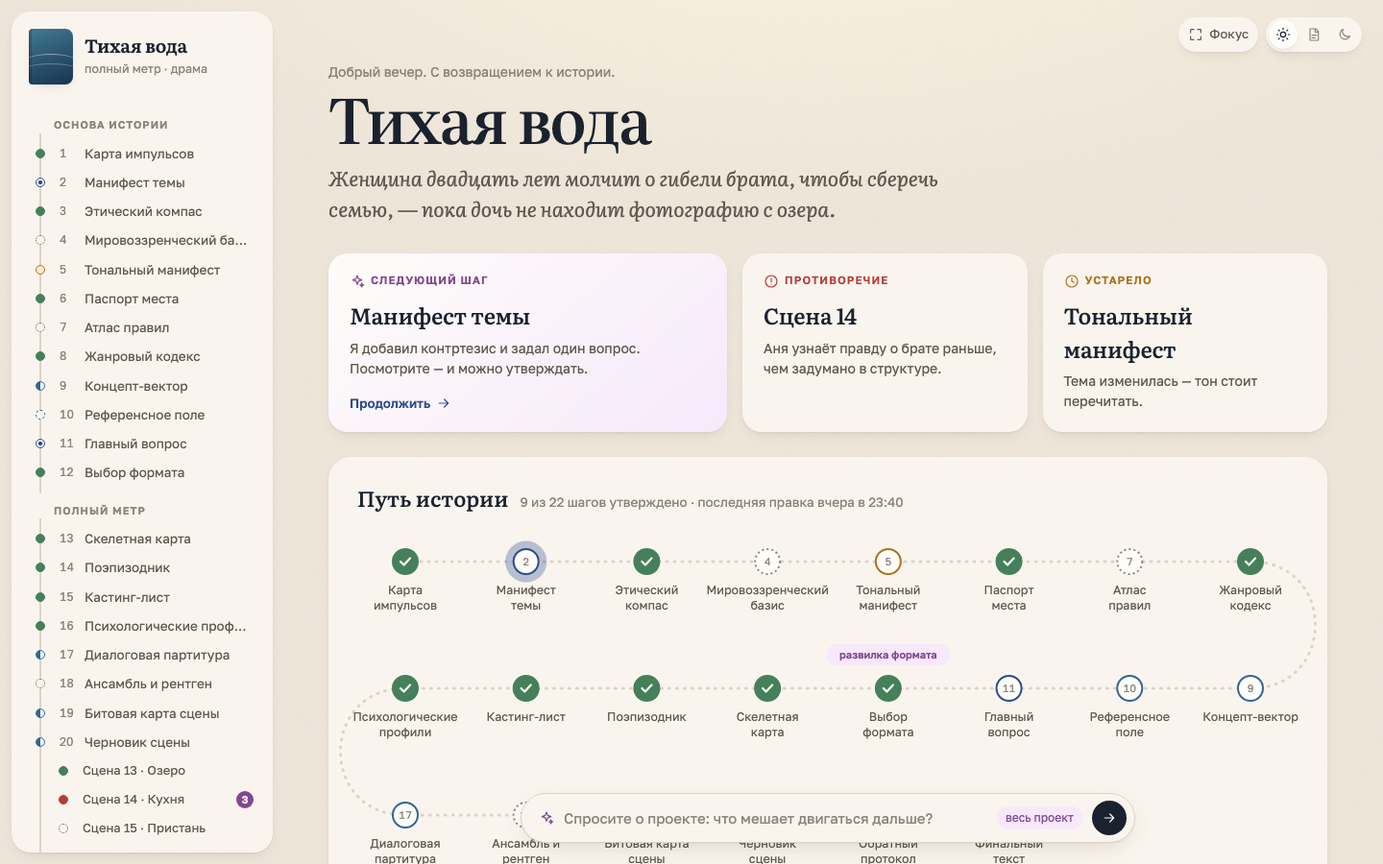
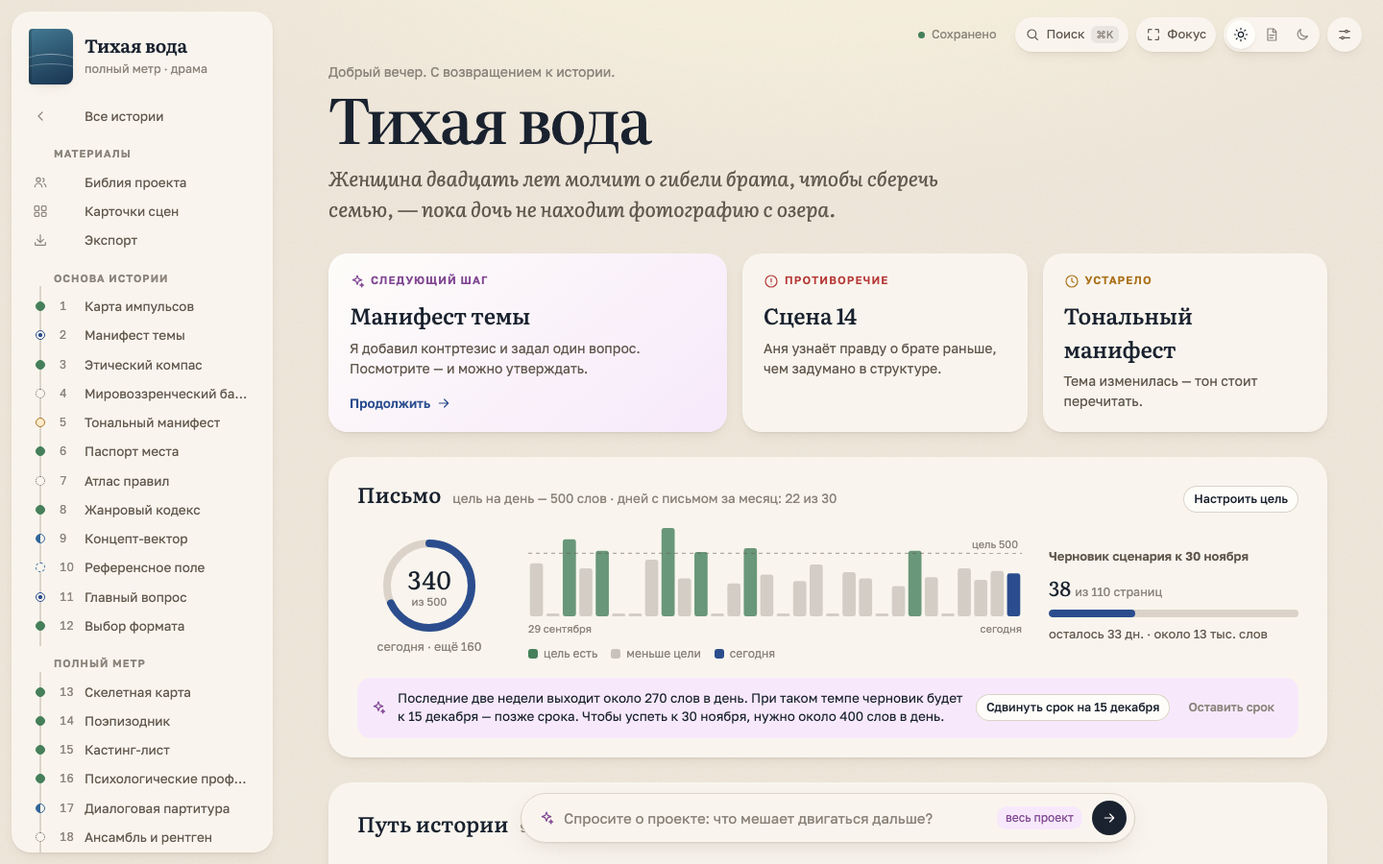
Add writing goals to «Кабинет» and FB2/EPUB export decisions
Home screen gets a «Письмо» block: today's words against the daily goal,
30 days of bars with the goal line, the draft goal with a deadline and the
co-author's pace forecast, plus goal settings. The scene sheet shows a live
«сегодня N из 500» counter. Context records goals, FB2 and EPUB export;
the competitor table gains FB2 rows and the new statuses.

diff --git a/openspec/context/_raw/design/kabinet/index.html b/openspec/context/_raw/design/kabinet/index.html
@@ -264,6 +264,54 @@
   .card .lbl { font-size: 11.5px; letter-spacing: .09em; text-transform: uppercase; font-weight: 600; color: var(--ink-3); display: flex; align-items: center; gap: 6px; }
   .card h3 { font-family: var(--font-prose); font-size: 23px; font-weight: 500; margin: 10px 0 6px; letter-spacing: -.01em; }
   .card p { margin: 0; color: var(--ink-2); font-size: 14px; }
+  /* ——— Письмо: цель на день и прогресс ——— */
+  .wr { background: var(--panel); border-radius: 24px; box-shadow: var(--shadow-sm); padding: 22px 30px 20px; margin-bottom: 26px; }
+  .wr-h { display: flex; align-items: baseline; flex-wrap: wrap; gap: 6px 12px; margin-bottom: 16px; }
+  .wr-h b { font-family: var(--font-prose); font-size: 22px; font-weight: 500; }
+  .wr-h span { color: var(--ink-3); font-size: 13.5px; }
+  .wr-h .chipbtn { margin-left: auto; }
+  .wr-body { display: grid; grid-template-columns: 150px 1fr 260px; gap: 28px; align-items: center; }
+  .wr-today { display: grid; justify-items: center; gap: 4px; text-align: center; }
+  .wr-ring { width: 104px; height: 104px; display: block; }
+  .wr-ring .bg { stroke: var(--line); } .wr-ring .fg { stroke: var(--accent); transition: stroke-dasharray .4s; } .wr-ring.met .fg { stroke: var(--ok); }
+  .wr-ring text { font-family: var(--font-prose); fill: var(--ink); font-size: 26px; font-variant-numeric: tabular-nums; }
+  .wr-ring text.sub { font-family: var(--font-ui); fill: var(--ink-3); font-size: 11.5px; }
+  .wr-today small { color: var(--ink-3); font-size: 12.5px; line-height: 1.35; }
+  .wr-chart { min-width: 0; }
+  .wr-plot { position: relative; }
+  .wr-chart svg { width: 100%; height: 92px; display: block; overflow: visible; }
+  .wr-goal { position: absolute; right: 0; font-size: 11px; color: var(--ink-3); background: var(--panel-solid); padding: 0 4px; border-radius: 4px; }
+  .wr-axis { display: flex; justify-content: space-between; margin-top: 5px; font-size: 11px; color: var(--ink-3); }
+  .wr-chart .bar { fill: var(--ink-3); opacity: .35; } .wr-chart .bar.met { fill: var(--ok); opacity: .8; } .wr-chart .bar.today { fill: var(--accent); opacity: 1; }
+  .wr-chart .zero { fill: var(--ink-3); opacity: .35; }
+  .wr-chart .goal { stroke: var(--ink-2); stroke-dasharray: 4 4; opacity: .6; }
+  .wr-legend { display: flex; flex-wrap: wrap; gap: 4px 14px; margin-top: 8px; font-size: 12px; color: var(--ink-3); }
+  .wr-legend span { display: inline-flex; align-items: center; gap: 6px; }
+  .wr-legend i { width: 10px; height: 10px; border-radius: 3px; display: inline-block; }
+  .wr-proj h4 { margin: 0 0 6px; font-size: 13px; font-weight: 600; color: var(--ink-2); }
+  .wr-proj .num { font-family: var(--font-prose); font-size: 21px; color: var(--ink); }
+  .wr-proj .num small { font-family: var(--font-ui); font-size: 12.5px; color: var(--ink-3); }
+  .wr-track { height: 8px; border-radius: 4px; background: var(--line); margin: 8px 0 8px; overflow: hidden; }
+  .wr-track i { display: block; height: 100%; border-radius: 4px; background: var(--accent); }
+  .wr-proj p { margin: 0; font-size: 13px; color: var(--ink-2); line-height: 1.45; }
+  .wr-ai { margin-top: 16px; padding: 12px 14px; border-radius: 14px; background: var(--ai-soft); font-size: 13.5px; line-height: 1.45; display: flex; flex-wrap: wrap; align-items: center; gap: 8px 12px; }
+  .wr-ai .i { color: var(--ai); flex: none; }
+  .wr-ai span { flex: 1 1 320px; }
+  .wr-ai .acts { display: flex; gap: 8px; flex-wrap: wrap; }
+  .wr-form { display: grid; grid-template-columns: repeat(3, minmax(0, 1fr)); gap: 14px 20px; margin-top: 4px; }
+  .wr-form label { display: grid; gap: 6px; font-size: 13px; color: var(--ink-2); }
+  .wr-form label small { color: var(--ink-3); font-size: 12px; }
+  .wr-form .field { max-width: none; }
+  .wr-form .wide { grid-column: 1 / -1; display: flex; flex-wrap: wrap; align-items: center; gap: 10px 16px; font-size: 13px; color: var(--ink-2); }
+  .wr-form .acts { grid-column: 1 / -1; display: flex; gap: 8px; }
+  .wr-form .wide .seg { margin: 0; }
+  .wr-form .wide .sep { margin-left: 18px; }
+  .wr-chip { display: inline-flex; align-items: center; gap: 7px; font-size: 12.5px; color: var(--ink-3); white-space: nowrap; font-variant-numeric: tabular-nums; }
+  .wr-chip svg { width: 18px; height: 18px; }
+  .wr-chip .bg { stroke: var(--line); } .wr-chip .fg { stroke: var(--accent); } .wr-chip.met .fg { stroke: var(--ok); } .wr-chip.met b { color: var(--ok); }
+  .wr-chip b { color: var(--ink); font-weight: 600; }
+  @media (max-width: 1000px) { .wr-body { grid-template-columns: 130px 1fr; } .wr-proj { grid-column: 1 / -1; } }
+  @media (max-width: 600px) { .wr { padding: 18px 18px 16px; } .wr-body { grid-template-columns: 1fr; gap: 18px; } .wr-today { grid-template-columns: auto 1fr; justify-items: start; text-align: left; align-items: center; column-gap: 14px; } .wr-ring { width: 84px; height: 84px; } .wr-ai > .i { display: none; } .wr-form { grid-template-columns: 1fr; } .wr-h .chipbtn { margin-left: 0; } }
   .card.next { background: linear-gradient(140deg, var(--paper), var(--ai-soft)); }
   .card.next .lbl { color: var(--ai); }
   .card .go { margin-top: 16px; display: inline-flex; align-items: center; gap: 6px; font-weight: 600; font-size: 13.5px; color: var(--accent); }
@@ -1438,6 +1486,7 @@ const STATE = {
   bibleTab: "people", gap: null,
   tlSel: 14, tlThreads: true, tlKnow: true, grSel: 14, tnSel: 14, tnMood: ["v", "a"], tension: {}, relAt: 14, relSel: "va", relFocus: "v", relView: "arcs",
   ibSel: 10, ibEdit: null, ibRename: null, ibGone: [], ibUndo: null, ibPos: {}, ibLinks: ["1-9", "1-4", "13-14", "3-5", "2-5", "2-16", "5-17", "6-8", "7-8"], ibSugg: ["4-10", "6-12"], ibLink: null, ibYes: {}, ibNo: [], ibNew: [], ibWires: true, ibShowGrew: true, ibGroups: true, ibView: "board", ibCam: null, ibGroupSugg: true,
+  goal: { day: 500, pages: 110, by: "2026-11-30", count: "text", chip: true, edit: false }, wrToday: 340,
   // Рамки групп на доске импульсов: координаты в точках доски
   ibFrames: [{ id: "lake", name: "Озеро", x: 0, y: 0, w: 620, h: 452 }, { id: "vera", name: "Вера и тема", x: 700, y: 0, w: 620, h: 452 }, { id: "kitchen", name: "Кухня, ночь", x: 1400, y: 0, w: 420, h: 452 }],
 };
@@ -1509,6 +1558,7 @@ const VIEWS = {
         <button class="card" data-act="sc-open" data-k="14"><div class="lbl" style="color:var(--bad)">${ico("warn")}Противоречие</div><h3>Сцена 14</h3><p>Аня узнаёт правду о брате раньше, чем задумано в структуре.</p></button>
         <button class="card"><div class="lbl" style="color:var(--warn)">${ico("clock")}Устарело</div><h3>Тональный манифест</h3><p>Тема изменилась — тон стоит перечитать.</p></button>
       </div>
+      ${wrHtml()}
       <div class="journey">
         <div class="journey-h"><b>Путь истории</b><span>${approvedCount()} из 22 шагов утверждено ·последняя правка вчера в 23:40</span></div>
         ${journeySvg()}
@@ -1585,7 +1635,7 @@ const VIEWS = {
       <article class="sheet script">
         <div class="eyebrow">Шаг 20 · Черновик сцены${one ? ` · биты из шага 19` : " · акт II"}</div>
         <h1 style="font-size:36px">${one ? s.title : "Трещина"}</h1>
-        <div class="meta">${one ? pill : `<span class="pill in_progress"><i></i>3 из 10 сцен написаны</span>`}${seg}${one ? btn : ""}${one ? scpHtml(n) : ""}</div>
+        <div class="meta">${one ? pill : `<span class="pill in_progress"><i></i>3 из 10 сцен написаны</span>`}${seg}${one ? btn : ""}${wrChip()}${one ? scpHtml(n) : ""}</div>
         ${ids.map(body).join("")}
         <div class="elt" id="elt" hidden></div>
       </article>
@@ -2679,6 +2729,59 @@ function relUpdate() {
 }
 document.addEventListener("input", (e) => { if (e.target.id === "relrange") { STATE.relAt = Number(e.target.value); relUpdate(); } });
 const boardSeg = (cur) => `<div class="seg">${[["cards", "Карточки"], ["scene", 'Текст<span class="wide"> сценария</span>'], ["timeline", "Таймлайн"], ["grid", "Линии"], ["rhythm", "Ритм"]].map(([k, l]) => `<button aria-pressed="${k === cur}" ${k === cur ? "" : `data-open="${k}"`}>${l}</button>`).join("")}</div>`;
+// ——— Письмо: цель на день, график за 30 дней, цель по черновику ———
+// Считаются слова в сценах и прозе; документы шагов — обдумывание, а не текст. Сценарий меряется страницами, день — словами.
+const WR_TODAY = new Date(2026, 9, 28);
+const WR_PAGES = 38, WR_WPP = 180;
+// слова за 29 дней до сегодня, от старых к новым
+const WR_DAYS = [420, 0, 610, 380, 520, 0, 0, 450, 700, 300, 510, 0, 260, 540, 330, 0, 280, 410, 0, 350, 300, 0, 240, 520, 310, 0, 380, 290, 360];
+const ruDate = (d, year) => d.toLocaleDateString("ru-RU", { day: "numeric", month: "long", ...(year ? { year: "numeric" } : {}) });
+const wrDays = () => [...WR_DAYS, STATE.wrToday];
+function wrPlan() {
+  const g = STATE.goal, days = wrDays(), last = days.slice(-14), avg = Math.round(last.reduce((a, b) => a + b, 0) / last.length);
+  const left = Math.max(0, g.pages - WR_PAGES) * WR_WPP, by = new Date(g.by), daysLeft = Math.max(1, Math.round((by - WR_TODAY) / 864e5));
+  const eta = new Date(WR_TODAY.getTime() + Math.ceil(left / Math.max(avg, 1)) * 864e5);
+  return { avg, left, by, daysLeft, need: Math.ceil(left / daysLeft / 10) * 10, eta, late: eta > by, active: days.filter(Boolean).length };
+}
+const wrRing = (cls, size, r, w, inner) => {
+  const c = 2 * Math.PI * r, f = Math.min(1, STATE.wrToday / STATE.goal.day), met = STATE.wrToday >= STATE.goal.day;
+  return `<svg class="${cls} ${met ? "met" : ""}" viewBox="0 0 ${size} ${size}" aria-hidden="true"><circle class="bg" cx="${size / 2}" cy="${size / 2}" r="${r}" fill="none" stroke-width="${w}"/><circle class="fg" cx="${size / 2}" cy="${size / 2}" r="${r}" fill="none" stroke-width="${w}" stroke-linecap="round" stroke-dasharray="${(c * f).toFixed(1)} ${c.toFixed(1)}" transform="rotate(-90 ${size / 2} ${size / 2})"/>${inner || ""}</svg>`;
+};
+function wrChart() {
+  const days = wrDays(), g = STATE.goal.day, W = 600, H = 92, top = Math.max(g * 1.25, ...days), bw = W / days.length;
+  const y = (v) => H - (v / top) * H, gy = y(g).toFixed(1);
+  const bars = days.map((v, i) => {
+    const d = new Date(WR_TODAY.getTime() - (days.length - 1 - i) * 864e5), x = (i * bw + 2).toFixed(1), today = i === days.length - 1;
+    const tip = `<title>${ruDate(d)}: ${v ? `${v} слов` : "без письма"}</title>`;
+    if (!v) return `<rect class="zero" x="${x}" y="${H - 3}" width="${(bw - 4).toFixed(1)}" height="3" rx="1.5">${tip}</rect>`;
+    return `<rect class="bar ${v >= g ? "met" : ""} ${today ? "today" : ""}" x="${x}" y="${y(v).toFixed(1)}" width="${(bw - 4).toFixed(1)}" height="${(H - y(v)).toFixed(1)}" rx="3">${tip}</rect>`;
+  }).join("");
+  return `<div class="wr-plot"><svg viewBox="0 0 ${W} ${H}" preserveAspectRatio="none" role="img" aria-label="Слова по дням за 30 дней">${bars}<line class="goal" x1="0" x2="${W}" y1="${gy}" y2="${gy}" vector-effect="non-scaling-stroke"/></svg><span class="wr-goal" style="top:${(gy - 17).toFixed(0)}px">цель ${g}</span></div><div class="wr-axis"><span>${ruDate(new Date(WR_TODAY.getTime() - 29 * 864e5))}</span><span>сегодня</span></div>`;
+}
+function wrHtml() {
+  const g = STATE.goal, pl = wrPlan(), met = STATE.wrToday >= g.day;
+  if (g.edit) return `<section class="wr"><div class="wr-h"><b>Цель письма</b><span>видна только вам</span></div>
+    <div class="wr-form">
+      <label>Слов в день<input class="field" id="wrday" type="number" min="50" step="50" value="${g.day}" /><small>считаются сцены и проза</small></label>
+      <label>Черновик сценария, страниц<input class="field" id="wrpages" type="number" min="1" value="${g.pages}" /><small>написано ${WR_PAGES}</small></label>
+      <label>Срок<input class="field" id="wrby" type="date" value="${g.by}" /><small>можно без срока — оставьте пустым</small></label>
+      <div class="wide"><span>Что считать:</span><div class="seg" role="group" aria-label="Что считать"><button aria-pressed="${g.count === "text"}" data-act="wr-count" data-k="text">Только текст истории</button><button aria-pressed="${g.count === "all"}" data-act="wr-count" data-k="all">Все документы</button></div>
+        <span class="sep">Счётчик на листе</span><button class="toggle ${g.chip ? "on" : ""}" data-act="wr-chip-t" aria-label="Счётчик на листе"><i></i></button></div>
+      <div class="acts"><button class="chipbtn main" data-act="wr-save">Сохранить</button><button class="chipbtn quiet" data-act="wr-edit">Отмена</button></div>
+    </div></section>`;
+  const byTxt = g.by ? ` к ${ruDate(pl.by)}` : "";
+  const ai = !g.by ? "" : pl.late
+    ? `<div class="wr-ai">${ico("ai")}<span>Последние две недели выходит около ${pl.avg} слов в день. При таком темпе черновик будет к ${ruDate(pl.eta)} — позже срока. Чтобы успеть${byTxt}, нужно около ${pl.need} слов в день.</span><div class="acts"><button class="chipbtn" data-act="wr-shift">Сдвинуть срок на ${ruDate(pl.eta)}</button><button class="chipbtn quiet" data-act="wr-keep">Оставить срок</button></div></div>`
+    : `<div class="wr-ai">${ico("ai")}<span>Около ${pl.avg} слов в день за две недели — черновик будет к ${ruDate(pl.eta)}${pl.eta.toDateString() === pl.by.toDateString() ? ", как раз к сроку" : ", раньше срока"}.</span></div>`;
+  return `<section class="wr">
+    <div class="wr-h"><b>Письмо</b><span>цель на день — ${g.day} слов · дней с письмом за месяц: ${pl.active} из 30</span><button class="chipbtn" data-act="wr-edit">Настроить цель</button></div>
+    <div class="wr-body">
+      <div class="wr-today">${wrRing("wr-ring", 104, 44, 8, `<text x="52" y="56" text-anchor="middle">${STATE.wrToday}</text><text class="sub" x="52" y="73" text-anchor="middle">из ${g.day}</text>`)}<small>${met ? "Цель на сегодня есть" : `сегодня · ещё ${g.day - STATE.wrToday}`}</small></div>
+      <div class="wr-chart">${wrChart()}<div class="wr-legend"><span><i style="background:var(--ok)"></i>цель есть</span><span><i style="background:var(--ink-3);opacity:.45"></i>меньше цели</span><span><i style="background:var(--accent)"></i>сегодня</span></div></div>
+      <div class="wr-proj"><h4>Черновик сценария${byTxt}</h4><div class="num">${WR_PAGES} <small>из ${g.pages} страниц</small></div><div class="wr-track"><i style="width:${Math.min(100, (WR_PAGES / g.pages) * 100).toFixed(1)}%"></i></div><p>${g.by ? `осталось ${pl.daysLeft} дн. · около ${Math.round(pl.left / 1000)} тыс. слов` : "без срока"}</p></div>
+    </div>${ai}</section>`;
+}
+const wrChip = () => STATE.goal.chip ? `<span class="wr-chip ${STATE.wrToday >= STATE.goal.day ? "met" : ""}" id="wrchip" title="Слова за сегодня. Цель — на главном экране">${wrRing("", 18, 7, 3)}сегодня <b>${STATE.wrToday}</b> из ${STATE.goal.day}</span>` : "";
 function nextCard() {
   const card = (key, label, title, text, go) => `<button class="card next" data-open="${key}"><div class="lbl">${ico("ai")}${label}</div><h3>${title}</h3><p>${text}</p><span class="go">${go} ${ico("arrow")}</span></button>`;
   if (STATE.revision) return card("impact", "План пересмотра", `0 из ${STATE.plan.size} документов`, "Тема изменилась. Начнём с «Тонального манифеста» — я отметил, что в нём устарело.", "Открыть план");
@@ -3096,7 +3199,7 @@ function segCenter() {
   const sg = $("#desk .seg"), b = sg && sg.querySelector('[aria-pressed="true"]');
   if (b && sg.scrollWidth > sg.clientWidth) sg.scrollLeft = b.offsetLeft - (sg.clientWidth - b.offsetWidth) / 2;
 }
-function relayout() { layoutNotes(); placeAsk(); segCenter(); if (current === "timeline") tlCenter(); if (current === "grid") grCenter(); if (current === "rhythm") tnCenter(); if (current === "d1") ibLayout(); }
+function relayout() { wrBase = current === "scene" ? { words: wrCount(), today: STATE.wrToday } : null; layoutNotes(); placeAsk(); segCenter(); if (current === "timeline") tlCenter(); if (current === "grid") grCenter(); if (current === "rhythm") tnCenter(); if (current === "d1") ibLayout(); }
 function highlight(key) {
   document.querySelectorAll(".hl").forEach((e) => e.classList.remove("hl"));
   document.querySelectorAll(`[data-a="${key}"], .note[data-for="${key}"]`).forEach((e) => e.classList.add("hl"));
@@ -4046,6 +4149,30 @@ Object.assign(ACTIONS, {
     toast(`Заменено: ${todo.length}.${skip ? ` В утверждённой сцене 13 не тронуто: ${skip} — её правка идёт через проверку последствий.` : ""} Вернуть можно в истории версий.`);
   },
 });
+Object.assign(ACTIONS, {
+  "wr-edit"() { STATE.goal.edit = !STATE.goal.edit; paint(); },
+  "wr-count"(b, k) { STATE.goal.count = k; paint(); },
+  "wr-chip-t"() { STATE.goal.chip = !STATE.goal.chip; paint(); },
+  "wr-save"() {
+    const day = Number($("#wrday").value), pages = Number($("#wrpages").value);
+    if (!(day > 0) || !(pages > 0)) { toast("Нужны число слов в день и число страниц — больше нуля."); return; }
+    Object.assign(STATE.goal, { day, pages, by: $("#wrby").value, edit: false }); paint();
+  },
+  "wr-shift"() { const pl = wrPlan(); const d = pl.eta; STATE.goal.by = `${d.getFullYear()}-${String(d.getMonth() + 1).padStart(2, "0")}-${String(d.getDate()).padStart(2, "0")}`; paint(); toast(`Срок черновика — ${ruDate(d)}.`); },
+  "wr-keep"(b) { b.closest(".wr-ai").remove(); toast("Срок остаётся. Подскажу снова, если темп изменится."); },
+});
+["wr-save", "wr-shift", "wr-count", "wr-chip-t"].forEach((a) => SAVES.add(a));
+// Слова за сегодня растут, пока автор пишет на листе
+let wrBase = null;
+const wrCount = () => [...document.querySelectorAll(".script-body")].reduce((n, b) => n + (b.innerText.match(/[\p{L}\p{N}]+/gu) || []).length, 0);
+document.addEventListener("input", (e) => {
+  if (!(e.target.closest && e.target.closest(".script-body[contenteditable=true]"))) return;
+  if (wrBase === null) return;
+  const was = STATE.wrToday, grow = wrCount() - wrBase.words;
+  STATE.wrToday = Math.max(wrBase.today, wrBase.today + grow);
+  const chip = $("#wrchip"); if (chip) chip.outerHTML = wrChip();
+  if (was < STATE.goal.day && STATE.wrToday >= STATE.goal.day) toast(`Цель на сегодня есть — ${STATE.goal.day} слов. Можно остановиться или писать дальше.`);
+});
 ["scp-color", "find-rep", "find-rep-all"].forEach((a) => SAVES.add(a));
 document.addEventListener("input", (e) => {
   if (e.target.id === "findin") { runFind(); return; }
@@ -4182,6 +4309,9 @@ const PRESETS = {
   "export/fountain": () => { STATE.exp.fmt = "fountain"; },
   "export/bible": () => { STATE.exp.what = "bible"; STATE.exp.notes = true; },
   "states/offline": () => { STATE.offline = true; STATE.pending = 3; },
+  "home/goal": () => { STATE.goal.edit = true; },
+  "home/met": () => { STATE.wrToday = 540; },
+  "scene/goal": () => { STATE.wrToday = 488; },
 };
 const [hashView, hashTheme, hashPreset] = location.hash.slice(1).split("/");
 if (hashTheme) document.documentElement.dataset.theme = hashTheme;

diff --git a/openspec/context/_raw/design/kabinet/README.md b/openspec/context/_raw/design/kabinet/README.md
@@ -5,7 +5,7 @@
 ## Как открыть
 Из корня репозитория: `python3 -m http.server 5180 --bind 127.0.0.1 --directory openspec/context/_raw/design/kabinet`, затем http://127.0.0.1:5180.
 Ссылка открывает экран и тему сразу: `#экран/тема`, например `#scene/dark`. Экраны: `shelf`, `new`, `import`, `home`, `d2`, `d11`, `impact`, `bible`, `cards`, `timeline`, `grid`, `rhythm`, `scene`, `versions`, `export`, `settings`, `states`; темы: `light`, `sepia`, `dark`.
-Третья часть ссылки открывает промежуточное состояние: `#scene/light/typing`, `#scene/light/menu`, `#scene/light/params`, `#scene/sepia/find`, `#scene/dark/mine`, `#scene/sepia/card`, `#scene/dark/select`, `#scene/light/vars`, `#scene/sepia/heading` (пустая сцена 15), `#scene/dark/act`, `#bible/light/rels`, `#bible/light/orbit`, `#bible/light/matrix`, `#bible/light/web`, `#d1/light/zoom` (доска в 100%), `#d1/light/link` (связывание), `#d1/sepia/list` (импульсы списком), `#d1/light/help` (панель «Как работать с доской»), `#new/sepia/blank`, `#import/light/result`, `#d11/light/checklist`, `#impact/light/result`, `#versions/dark/auto`, `#export/dark/fountain`, `#export/light/bible`, `#states/dark/offline`.
+Третья часть ссылки открывает промежуточное состояние: `#scene/light/typing`, `#scene/light/menu`, `#scene/light/params`, `#scene/sepia/find`, `#scene/dark/mine`, `#scene/sepia/card`, `#scene/dark/select`, `#scene/light/vars`, `#scene/sepia/heading` (пустая сцена 15), `#scene/dark/act`, `#bible/light/rels`, `#bible/light/orbit`, `#bible/light/matrix`, `#bible/light/web`, `#d1/light/zoom` (доска в 100%), `#d1/light/link` (связывание), `#d1/sepia/list` (импульсы списком), `#d1/light/help` (панель «Как работать с доской»), `#new/sepia/blank`, `#import/light/result`, `#d11/light/checklist`, `#impact/light/result`, `#versions/dark/auto`, `#export/dark/fountain`, `#export/light/bible`, `#states/dark/offline`, `#home/light/goal` (настройка цели письма), `#home/dark/met` (цель на сегодня есть), `#scene/light/goal` (до цели 12 слов — допишите в сцене).
 Клавиша F — режим фокуса, Esc — выход, ⌘K (Ctrl+K) — поиск и команды. В тексте сцены: ⌘F (Ctrl+F) — найти и заменить, Enter и Tab переключают тип абзаца, Shift+Tab — назад по списку, ⌥1–⌥6 — тип напрямую.
 
 ## Что внутри
@@ -15,6 +15,8 @@
 
 ## Экраны
 - **Рабочее место** (`home`, `d2`, `scene`): главный экран проекта, документ этапа с заметками на полях, сцена-«американка» с противоречием.
+- **Письмо** (блок на главном экране `home`, решение владельца 2026-10-28; опора — Writing Stats в Final Draft, цели Scrivener и Dabble): кольцо «слов сегодня из цели»; столбики за 30 дней с пунктиром цели — цель есть, меньше цели, сегодня, пустые дни точкой; «дней с письмом за месяц» вместо серии дней, чтобы пропуск не наказывал; цель по черновику — страницы для сценария, слова для прозы — со сроком. Соавтор сравнивает темп за две недели со сроком и, если не успеть, предлагает «Сдвинуть срок на …» или «Оставить срок»; если успевает — говорит, к какому дню будет черновик. «Настроить цель»: слов в день, объём черновика, срок (можно без срока), что считать — только текст истории или все документы, — и счётчик на листе. Считаются слова в сценах и прозе; документы шагов — обдумывание, не текст.
+  - На листе сцены под шапкой — «сегодня N из 500» с маленьким кольцом; растёт, пока автор пишет, на цели становится зелёным и один раз говорит «Цель на сегодня есть — можно остановиться или писать дальше».
 - **Редактор сцены** (`scene`): текст сценария правится прямо на листе.
   - Типы абзацев: заголовок сцены, описание, персонаж, ремарка, реплика, переход. На левом поле листа виден тип текущего абзаца и куда ведут Tab и Enter; клик по типу открывает список с ⌥1–⌥6. На узком экране тип и подсказки Tab/Enter стоят плашкой над строкой соавтора.
   - Как в Final Draft и STARC: Enter после имени — реплика, после реплики — описание. Tab на пустом описании — персонаж. «инт. » в начале описания само превращает абзац в заголовок сцены.
@@ -77,7 +79,7 @@
 - Экспорт черновика до шага 22 разрешён с несъёмной пометкой «Черновик»; финальный текст по-прежнему собирается только из утверждённого.
 
 ## Что проверено
-Все экраны в трёх темах на 1440 и 830 px; клики по всем связкам (набор сцены с Tab, Enter и ⌥-клавишами, автодополнение имён и заголовков, карточка персонажа, панель выделения и её действия, переходы по сценам и битам, режим акта, создание истории, разбор рукописи, вопросы и чек-лист шага 11, утверждение, проверка последствий и план, библия, перетаскивание и набросок сцены, таймлайн (выбор сцены, слои, состояние до и после правки сцены 14, набросок связки), линии (выбор сцены, набросок связки, пересчёт сцены по тексту), отношения (четыре вида, ползунок по всем 26 сценам, остановки, выбор связи и героя в центре, переход по истории связи), ритм (перетаскивание точки мышью, возврат оценки соавтора, состояние до и после правки сцены 14 и со связкой), поиск с клавиатуры, версии и возврат, экспорт, настройки, «нет связи», сбой соавтора, удаление) без ошибок в консоли. Наложения и обрезка всплывающих слоёв, меню, заметок, подписей и кнопок проверены скриптом на всех экранах и состояниях редактора при ширине 1440, 1300, 1240, 1180, 1000, 830, 760 и 390 px. Таймлайн: подписи графика проверены скриптом на наложения во всех состояниях, раскладка — при 1187, 830 и 375 px. Линии, ритм и отношения: раскладка проверена скриптом при 1187 и 375 px; ритм с настроением героинь (обе, одна, ни одной, до и после правки сцены 14) и голоса в параметрах сцены — ещё и при 830 px; карта импульсов (создание кнопкой и двойным кликом, набор текста, Enter, Esc и клик мимо, правка и пустой текст, удаление и возврат, новая группа и переименование, выбор, перетаскивание карточки и рамки, вход в группу и рост рамки, сдвиг и масштаб кнопками и колесом, «Вписать всё», связывание и отмена, сбор предложенной группы, ответы на предложения соавтора, добавление, список и «Показать на доске», «Фокус») — при 1440, 1187, 830 и 375 px, включая наложения карточек друг на друга, подписей связей и групп на карточки и выход карточек за рамку; подписи ритма и всех четырёх видов отношений — на наложения друг с другом и с кружками персонажей во всех 26 сценах и для каждого героя в центре. Не проверено: Firefox, Safari (подсветка имени под мышью использует CSS Custom Highlight API), ввод с экранной клавиатуры и IME, клавиатурная навигация, экранные дикторы, перетаскивание на сенсорных экранах.
+Все экраны в трёх темах на 1440 и 830 px; клики по всем связкам (набор сцены с Tab, Enter и ⌥-клавишами, автодополнение имён и заголовков, карточка персонажа, панель выделения и её действия, переходы по сценам и битам, режим акта, создание истории, разбор рукописи, вопросы и чек-лист шага 11, утверждение, проверка последствий и план, библия, перетаскивание и набросок сцены, таймлайн (выбор сцены, слои, состояние до и после правки сцены 14, набросок связки), линии (выбор сцены, набросок связки, пересчёт сцены по тексту), отношения (четыре вида, ползунок по всем 26 сценам, остановки, выбор связи и героя в центре, переход по истории связи), ритм (перетаскивание точки мышью, возврат оценки соавтора, состояние до и после правки сцены 14 и со связкой), поиск с клавиатуры, версии и возврат, экспорт, настройки, «нет связи», сбой соавтора, удаление) без ошибок в консоли. Наложения и обрезка всплывающих слоёв, меню, заметок, подписей и кнопок проверены скриптом на всех экранах и состояниях редактора при ширине 1440, 1300, 1240, 1180, 1000, 830, 760 и 390 px. Таймлайн: подписи графика проверены скриптом на наложения во всех состояниях, раскладка — при 1187, 830 и 375 px. Линии, ритм и отношения: раскладка проверена скриптом при 1187 и 375 px; ритм с настроением героинь (обе, одна, ни одной, до и после правки сцены 14) и голоса в параметрах сцены — ещё и при 830 px; карта импульсов (создание кнопкой и двойным кликом, набор текста, Enter, Esc и клик мимо, правка и пустой текст, удаление и возврат, новая группа и переименование, выбор, перетаскивание карточки и рамки, вход в группу и рост рамки, сдвиг и масштаб кнопками и колесом, «Вписать всё», связывание и отмена, сбор предложенной группы, ответы на предложения соавтора, добавление, список и «Показать на доске», «Фокус») — при 1440, 1187, 830 и 375 px, включая наложения карточек друг на друга, подписей связей и групп на карточки и выход карточек за рамку; подписи ритма и всех четырёх видов отношений — на наложения друг с другом и с кружками персонажей во всех 26 сценах и для каждого героя в центре. Письмо: набор в сцене до цели и сообщение, «Сдвинуть срок», настройка цели — при 1440, 1187, 830 и 375 px скриптом наложений, в трёх темах. Не проверено: Firefox, Safari (подсветка имени под мышью использует CSS Custom Highlight API), ввод с экранной клавиатуры и IME, клавиатурная навигация, экранные дикторы, перетаскивание на сенсорных экранах.
 
 ## Версии, от которых отказались
 Хранятся только в истории разговора: отдельные экраны «документ» и «сцена» с разной подачей ИИ; общее рабочее место с чатом в правой колонке; «Лист по центру» как в Google Docs.

diff --git a/openspec/context/_raw/research/Конкуренты/Сводка.md b/openspec/context/_raw/research/Конкуренты/Сводка.md
@@ -1,6 +1,6 @@
 # Сводка: 19 продуктов против Authorled
 
-Дата сбора: 2026-10-27–28. Таблица — `Фичи.csv` (224 функции × 19 продуктов + статус Authorled + важность). Дополнительные функции, которых нет в таксономии, — `new-features.csv` (202 строки). Разборы — `products/`.
+Дата сбора: 2026-10-27–28. Таблица — `Фичи.csv` (226 функций × 19 продуктов + статус Authorled + важность). Дополнительные функции, которых нет в таксономии, — `new-features.csv` (202 строки). Разборы — `products/`.
 
 ## Что разобрано
 
@@ -34,7 +34,7 @@
 - Шаблоны проекта по жанру и формату (ST-07, 14 из 19) — в спеке.
 - Синхронизация между устройствами (PL-08, 13) — в спеке.
 - Вставка изображений в текст (ED-10, 13), обложка и метаданные книги (IO-22, 13), папки произвольной глубины (ST-03, 12) — помечены «не нужно»; стоит пересмотреть хотя бы изображения.
-- Графики прогресса (GO-10, 11), дневная цель по словам (GO-01, 10) — нет.
+- Графики прогресса (GO-10, 11), дневная цель по словам (GO-01, 10) — были `нет`, с 2026-10-28 нарисованы в макете (блок «Письмо»).
 - Хранение исследований (BI-15, 11), комментарии-треды (VE-09, 10) — в спеке.
 - Импорт Markdown и TXT (IO-06, 10) — нет.
 - Модель денег: подписка, пробный период, бесплатный тариф (BZ-01/02/04) — нигде не описана.
@@ -69,6 +69,8 @@
 ## Решения владельца
 
 - 2026-10-28: экспорт Markdown нужен (IO-13 → must-have, записано в ADR-005); импорт `.starc` нужен (уже в ADR-005, добавлен в сценарий «Начать с рукописи» в `01-product-context.md`); импорт и экспорт Fountain и FDX нужны (IO-02/03/09/10 → must-have, ADR-005 и `01-product-context.md`).
+
+- 2026-10-28: дневная цель по словам, цель проекта и график прогресса (GO-01/02/10) — делаем, сценарий «Писать регулярно» в `01-product-context.md`; экспорт FB2 (новая строка IO-23) и EPUB — делаем, мост на Author.Today, Литнет и ЛитРес.
 
 ## Что дальше
 
